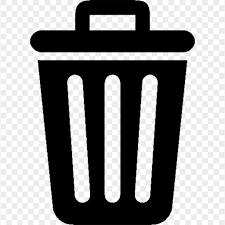
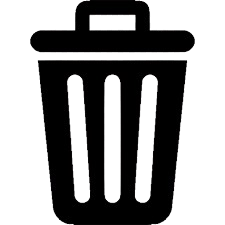
Configured Addition of Task to Database

diff --git a/src/components/ScheduleMenu.tsx b/src/components/ScheduleMenu.tsx
@@ -164,23 +164,23 @@ function ScheduleMenu(props: any) {
                   itemHeight={40}
                 >
                   <Picker.Column name="hour">
-                    {Array.from({ length: 24 }, (_, i) => `${i}`).map(
-                      (hour) => (
-                        <Picker.Item key={hour} value={hour}>
-                          {({ selected }) => (
-                            <div
-                              className={
-                                selected
-                                  ? "font-semibold text-neutral-900"
-                                  : "text-neutral-400"
-                              }
-                            >
-                              {hour}
-                            </div>
-                          )}
-                        </Picker.Item>
-                      )
-                    )}
+                    {Array.from({ length: 24 }, (_, i) =>
+                      String(i).padStart(2, "0")
+                    ).map((hour) => (
+                      <Picker.Item key={hour} value={hour}>
+                        {({ selected }) => (
+                          <div
+                            className={
+                              selected
+                                ? "font-semibold text-neutral-900"
+                                : "text-neutral-400"
+                            }
+                          >
+                            {hour}
+                          </div>
+                        )}
+                      </Picker.Item>
+                    ))}
                   </Picker.Column>
                   <Picker.Column name="minute">
                     {Array.from({ length: 60 }, (_, i) =>
@@ -233,7 +233,7 @@ function ScheduleMenu(props: any) {
                 >
                   <Picker.Column name="date">
                     {getNext30Days().map((date: any) => (
-                      <Picker.Item key={date.label} value={date.label}>
+                      <Picker.Item key={date.label} value={date.value}>
                         {({ selected }) => (
                           <div
                             className={

diff --git a/src/App.tsx b/src/App.tsx
@@ -22,11 +22,12 @@ function App() {
   const [schedules, setSchedules] = useState([]);
   async function sendPostRequest(data: any) {
     const hour = parseInt(data.hour);
-    const minutes = parseInt(data.minute);
-    const duration =
-      hour * 60 + minutes + Math.floor(parseInt(data.second) / 60);
+    const minute = parseInt(data.minute);
+    const second = parseInt(data.second);
+    const start_datetime = data.start_datetime;
+    const duration = data.duration;
 
-    const payload = { hour, minutes, duration };
+    const payload = { start_datetime, duration, hour, minute, second };
 
     console.log("Sending payload:", payload);
 
@@ -87,13 +88,16 @@ function App() {
       second: duration.second,
       time: startTime.time,
       date: startTime.date,
+      start_datetime: startTime.date + "T" + startTime.time + ":00Z",
+      duration: duration.hour + ":" + duration.minute + ":" + duration.second,
     };
     console.log(newSchedule);
-    // sendPostRequest(newSchedule).then((createdTask) => {
-    //   if (createdTask) {
-    //     fetchScheduleList();
-    //   }
-    // });
+
+    sendPostRequest(newSchedule).then((createdTask) => {
+      if (createdTask) {
+        fetchScheduleList();
+      }
+    });
   };
   const wifiCallback = (value: number) => {
     console.log("selected wifi:" + String(value));

diff --git a/src/components/Task.tsx b/src/components/Task.tsx
@@ -1,9 +1,13 @@
 import { motion } from "motion/react";
 import { div } from "motion/react-client";
 import { useState } from "react";
+import trash from "./assets/trashbin.png";
 
 function Task(props: any) {
-  console.log(props.data);
+  function deleteTask(id: any) {
+    props.taskDeletion(id);
+  }
+
   return (
     <motion.div>
       <div
@@ -19,6 +23,23 @@ function Task(props: any) {
         <div className="vertical-division"></div>
         <div className="task-duration">{props.data.duration}</div>
         <div className="vertical-division"></div>
+        <motion.button
+          whileTap={{ scale: 1.2 }}
+          style={{
+            border: "none",
+            outline: "none",
+            background: "transparent",
+          }}
+        >
+          <div
+            className="delete-task"
+            onClick={() => {
+              deleteTask(props.data.id);
+            }}
+          >
+            <img src={trash} alt="" />
+          </div>
+        </motion.button>
       </div>
     </motion.div>
   );

diff --git a/src/App.css b/src/App.css
@@ -368,7 +368,8 @@ width:0;
   border-radius: calc((2vh + 2vw) / 2);
   width:100%;
   background-color: rgba(0,0,0,0.2);
-  display: flex;
+  display: grid;
+  grid-template-columns: 45% 1px 35%  1px 15%;
   color:#000;
   font-weight: 600;
   /*
@@ -383,13 +384,13 @@ width:0;
 } 
 
 .task-datetime{
-  width:45%;
+  /* width:40%; */
   text-align: center;
   
 }
 .task-duration{
   text-align: center;
-  width:35%;
+  /* width:40%; */
 }
 
 .vertical-division{
@@ -400,5 +401,14 @@ width:0;
   border-radius:calc((2vh + 2vw) / 2);
   border: solid rgba(0,0,0,0.7);
   border-width:0.1px;
+}
+.delete-task{
+  /* width:20%; */
+  align-items: center;
+  display: flex;
+  justify-content: center;
+}
 
+.delete-task > img{
+  width:100%;
 }

diff --git a/src/components/TaskView.tsx b/src/components/TaskView.tsx
@@ -4,10 +4,14 @@ import { useState, useEffect } from "react";
 import Task from "./Task";
 
 function TaskView(props: any) {
+  function taskDeletion(id: any) {
+    //logic to handle deletion -  send delete request
+    console.log(id);
+  }
   return (
     <div className="task-view">
       {props.schedules.map((task: any) => (
-        <Task data={task}></Task>
+        <Task data={task} taskDeletion={taskDeletion}></Task>
       ))}
     </div>
   );
